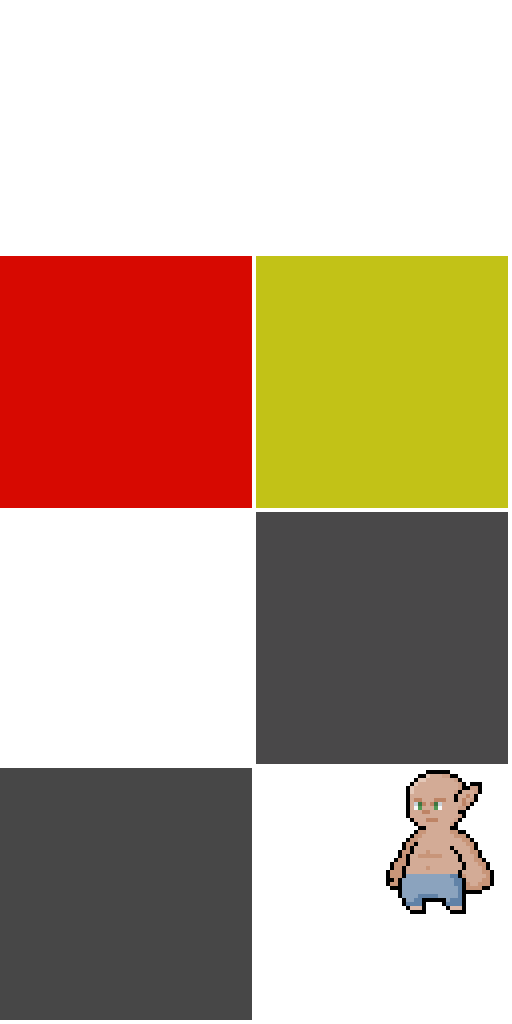
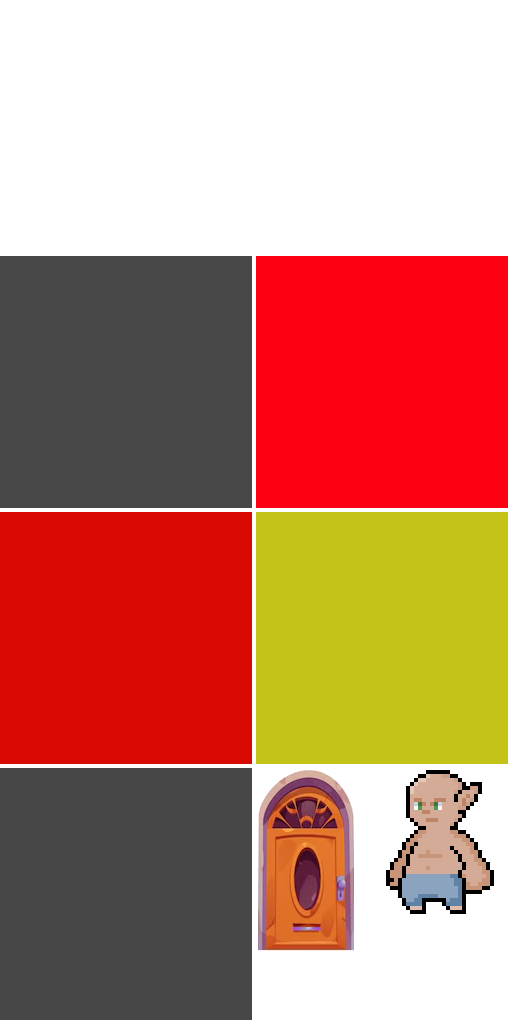
Add files via upload

diff --git a/ATV9_programacao/scripts/objRefTable.js b/ATV9_programacao/scripts/objRefTable.js
@@ -14,13 +14,15 @@ self.C3_GetObjectRefTable = function () {
 		C3.Plugins.System.Acts.Scroll,
 		C3.Plugins.Sprite.Exps.X,
 		C3.Plugins.Sprite.Exps.Y,
-		C3.Plugins.System.Cnds.Compare,
-		C3.Behaviors.Bullet.Acts.SetSpeed,
 		C3.Plugins.Sprite.Cnds.OnCollision,
 		C3.Plugins.Sprite.Acts.Destroy,
 		C3.Plugins.System.Acts.AddVar,
 		C3.Plugins.System.Acts.RestartLayout,
-		C3.Plugins.System.Acts.SetVar
+		C3.Plugins.System.Acts.SetVar,
+		C3.Plugins.System.Cnds.Compare,
+		C3.Plugins.Sprite.Acts.SetAnim,
+		C3.Behaviors.solid.Acts.SetEnabled,
+		C3.Behaviors.Bullet.Acts.SetSpeed
 	];
 };
 self.C3_JsPropNameTable = [
@@ -33,21 +35,26 @@ self.C3_JsPropNameTable = [
 	{Plataforma: 0},
 	{RestritoAoLayout: 0},
 	{personagem: 0},
-	{Sprite2: 0},
 	{porta: 0},
 	{Sprite3: 0},
 	{Texto2: 0},
 	{Sprite4: 0},
-	{moedas: 0}
+	{Sprite5: 0},
+	{Sprite2: 0},
+	{Texto3: 0},
+	{moedas: 0},
+	{armadilha: 0}
 ];
 
 self.InstanceType = {
 	chão: class extends self.ISpriteInstance {},
 	Sprite: class extends self.ISpriteInstance {},
 	personagem: class extends self.ISpriteInstance {},
-	Sprite2: class extends self.ISpriteInstance {},
 	porta: class extends self.ISpriteInstance {},
 	Sprite3: class extends self.ISpriteInstance {},
 	Texto2: class extends self.ITextInstance {},
-	Sprite4: class extends self.ISpriteInstance {}
+	Sprite4: class extends self.ISpriteInstance {},
+	Sprite5: class extends self.ISpriteInstance {},
+	Sprite2: class extends self.ISpriteInstance {},
+	Texto3: class extends self.ITextInstance {}
 }

diff --git a/ATV9_programacao/scripts/c3runtime.js b/ATV9_programacao/scripts/c3runtime.js
@@ -1235,9 +1235,13 @@ self.C3_ExpressionFuncs = [
 			const n0 = p._GetNode(0);
 			return () => n0.ExpObject();
 		},
-		() => 795,
+		() => 1,
 		() => 0,
-		() => 1
+		() => 30,
+		() => "Animation 2",
+		() => 680,
+		() => 780,
+		() => 70
 ];
 
 
